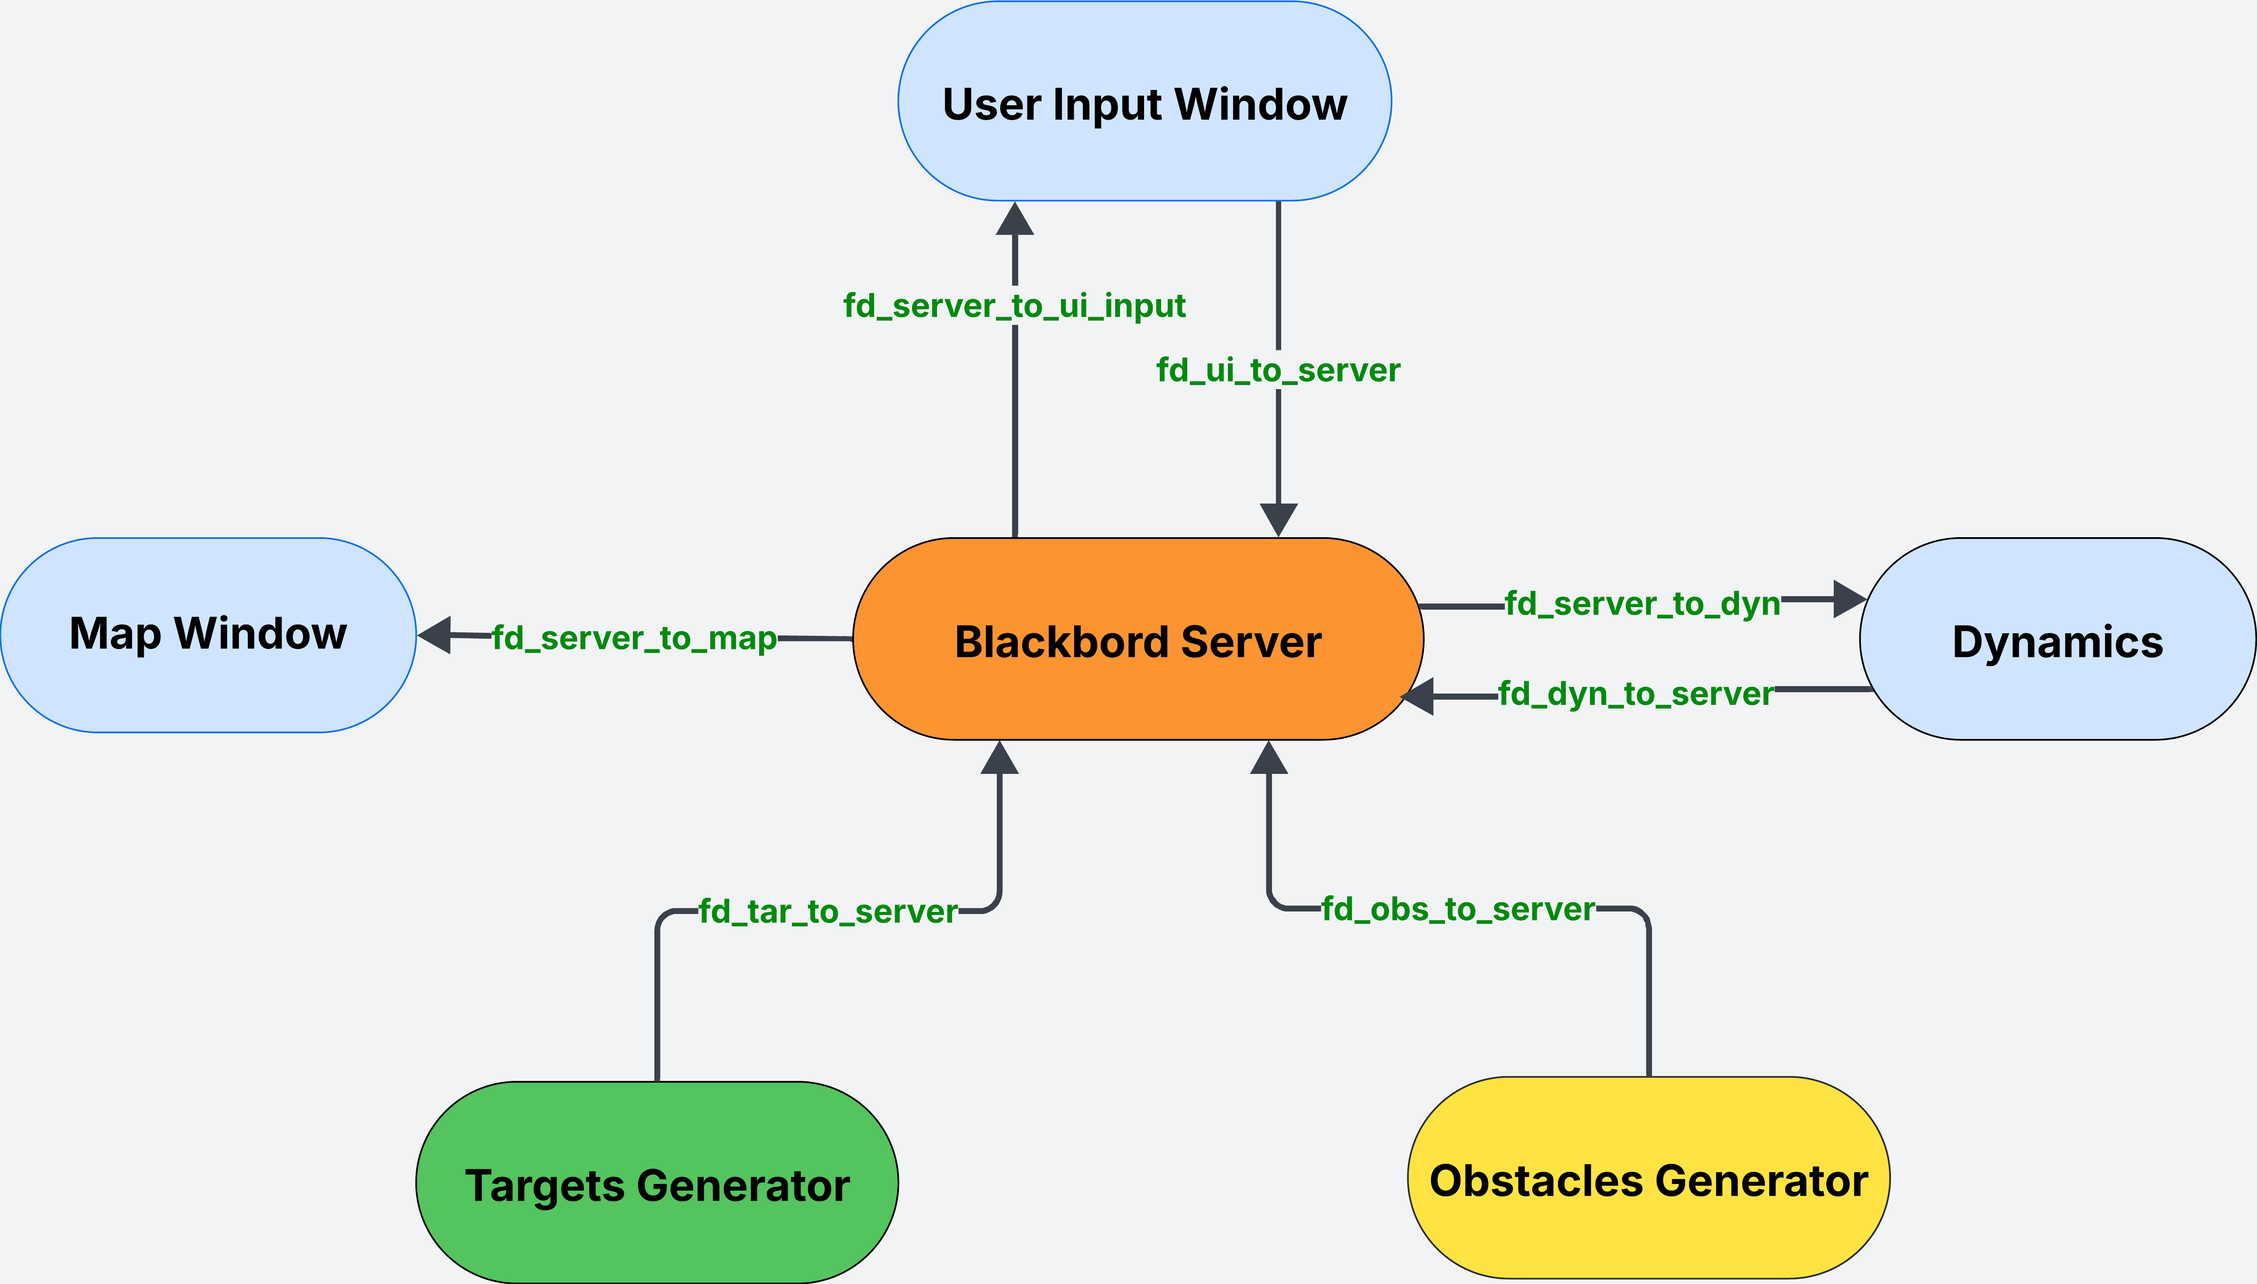
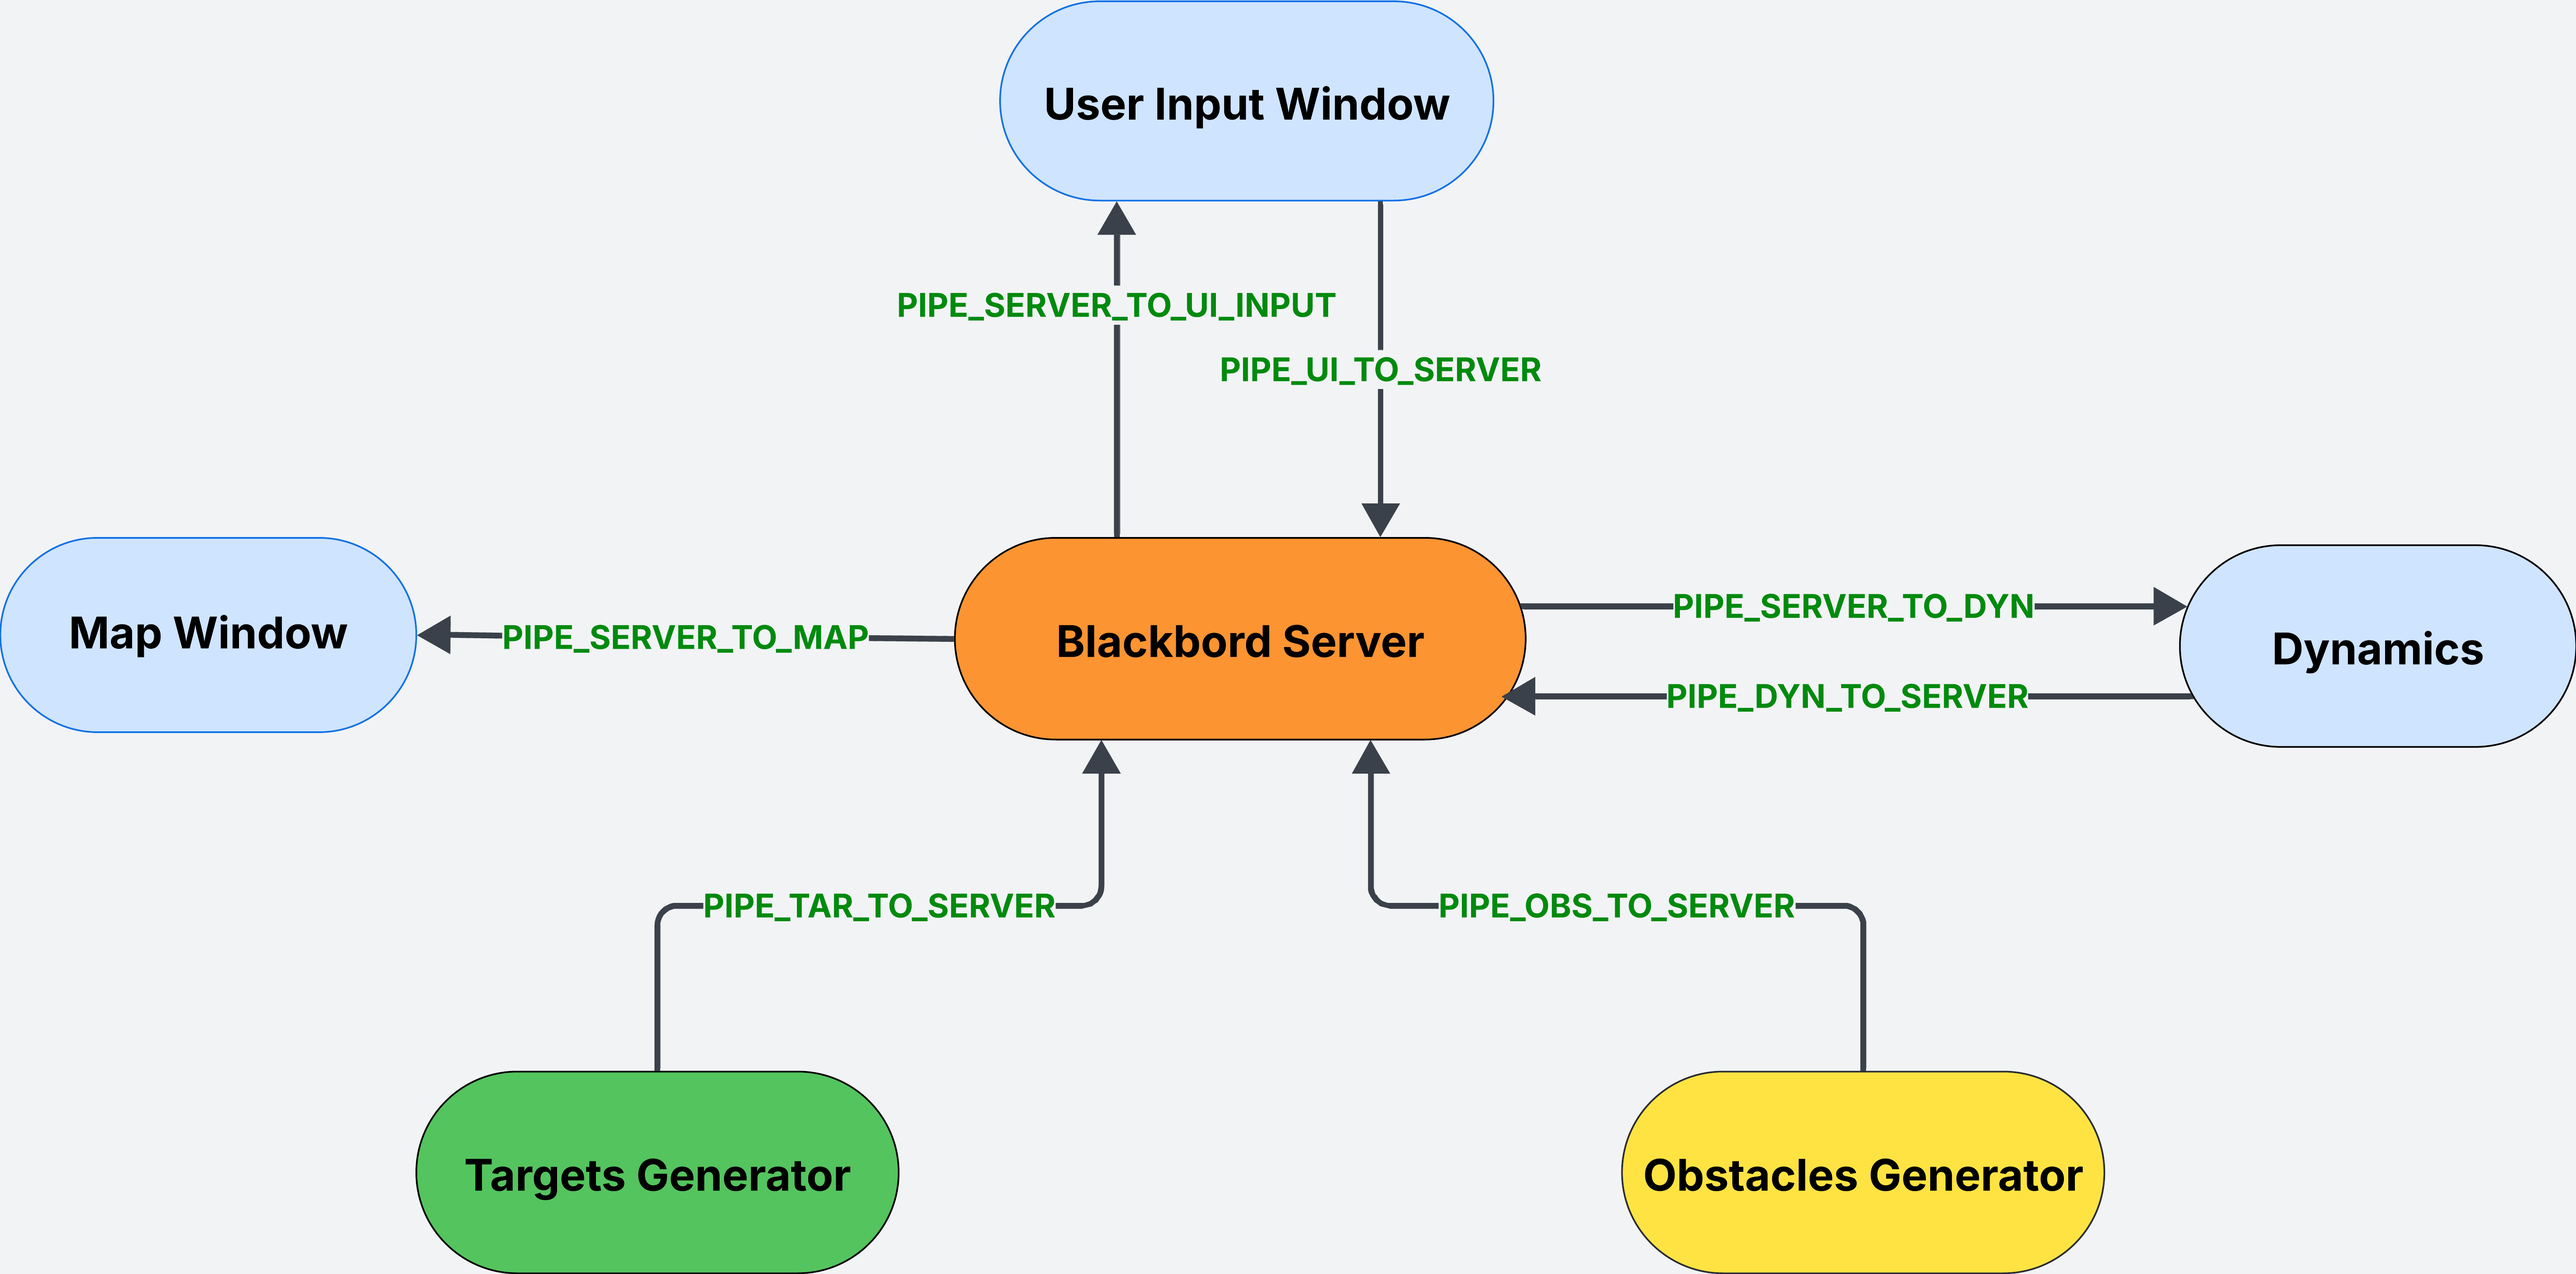
Final Submission: Completed Assignment 1 - Drone Simulator

diff --git a/README.md b/README.md
@@ -23,7 +23,7 @@ The simulation runs across two synchronized terminal windows:
 ---
 ## 2. System Architecture
 The system utilizes a centralized architecture where the Blackboard acts as the server. All other processes (Drone Dynamics, UI, Obstacles, Targets) act as clients that communicate exclusively through the Blackboard.
-![Architecture](1.png)
+![Architecture](ArchitectureDiagram.png)
 
 ### Communication Protocol
 * Mechanism: Named Pipes (FIFOs).
